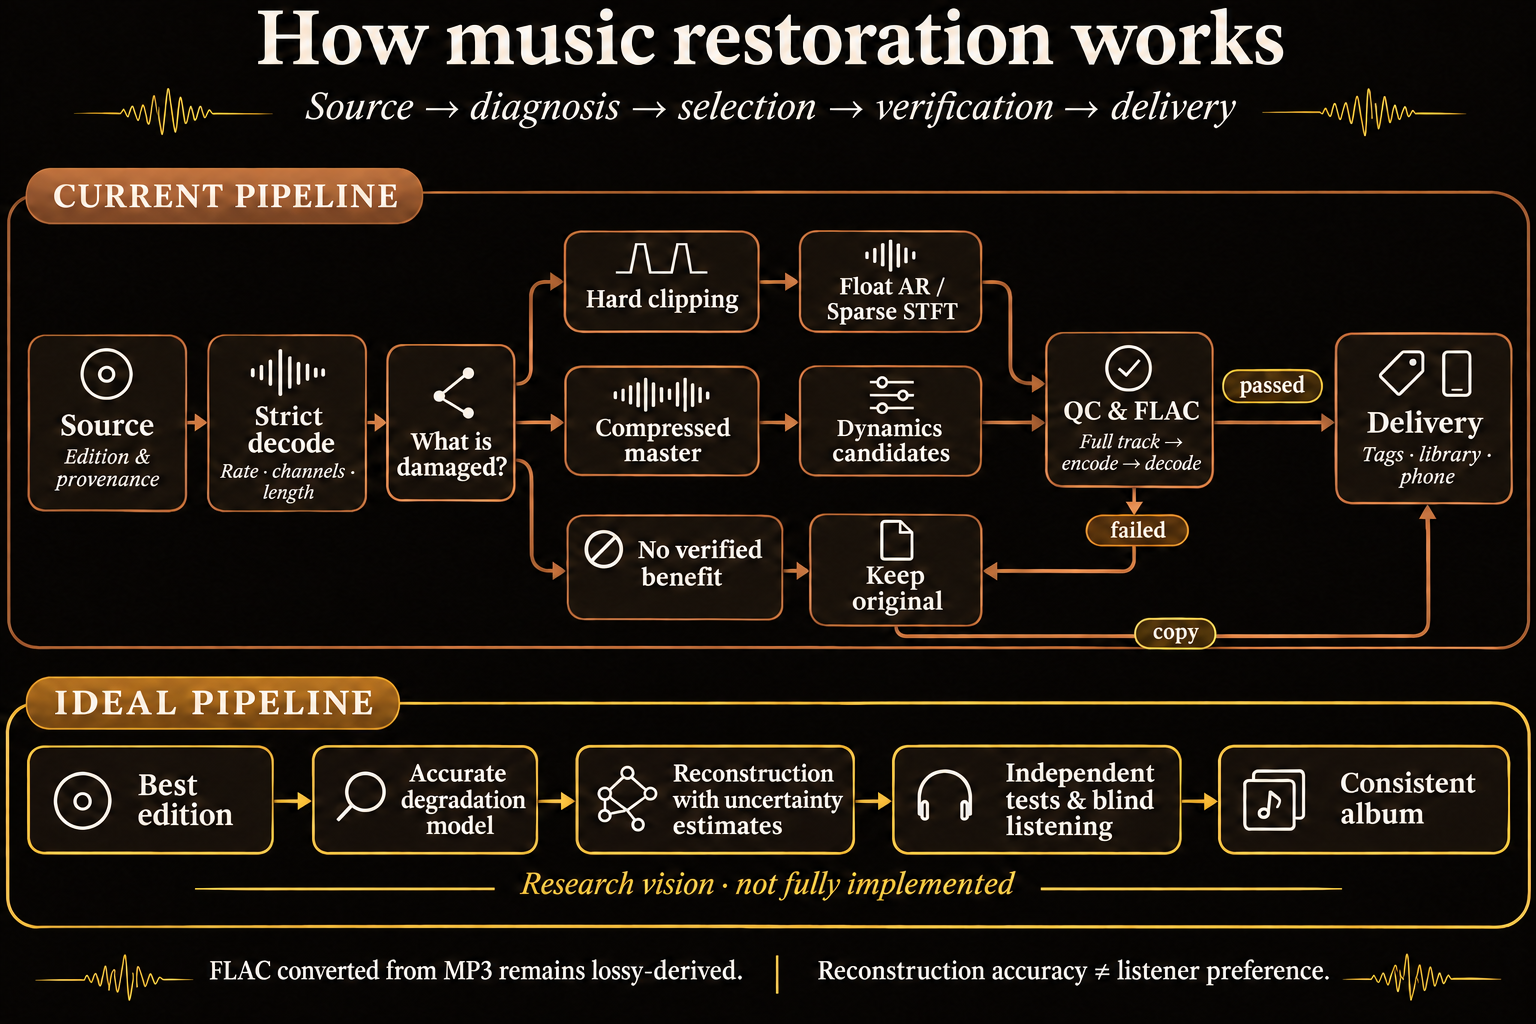
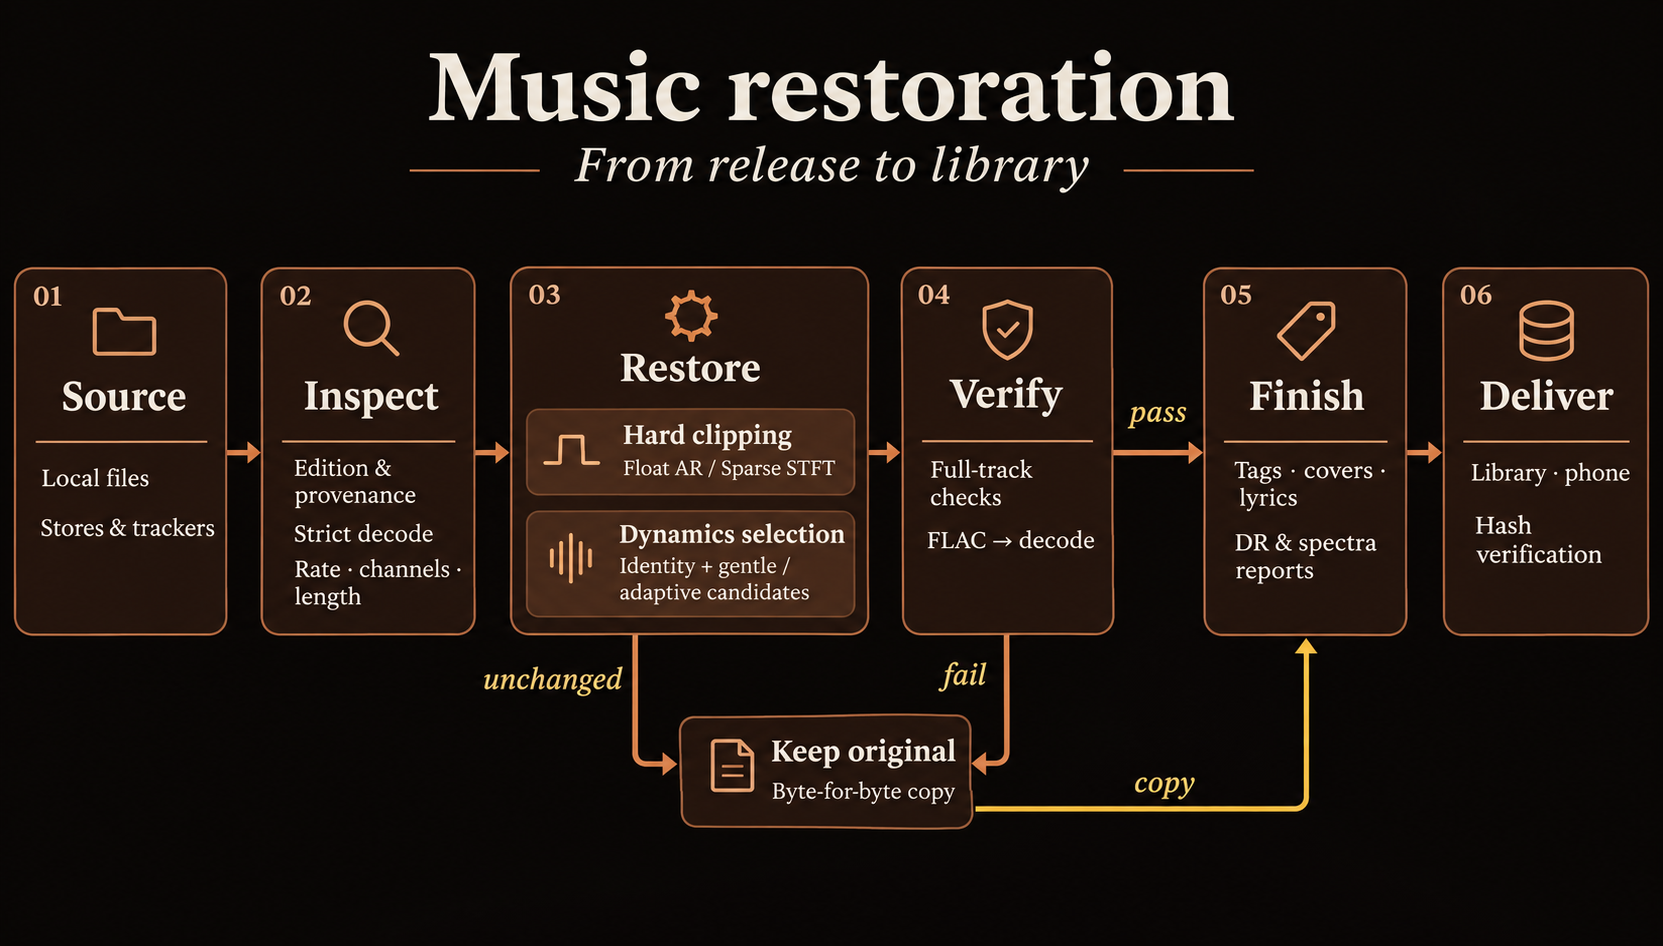
Show only the implemented restoration architecture in the GitHub diagram

diff --git a/docs/restoration-method-ru.md b/docs/restoration-method-ru.md
@@ -2,7 +2,7 @@
 
 Обновлённый скилл связывает поиск подходящего издания, диагностику, обработку, контроль файлов и выдачу в коллекцию. Главное изменение DSP: распознаваемый hard clipping получает отдельную реконструкцию, а сохранение исходника стало полноценным решением. Прохождение инженерных проверок ещё не устанавливает приятность звучания.
 
-![Current and ideal music restoration pipeline](assets/restoration-pipeline.png)
+![Current music restoration pipeline](assets/restoration-pipeline.png)
 
 Схема показывает выбор действий. Низкий DR плотного мастера сам по себе не доказывает повреждение. Ветка динамики проверяет кандидаты относительно исходника и может сохранить его. Доставка на телефон выполняется по запросу с проверкой переданных файлов.
 

diff --git a/README.md b/README.md
@@ -26,7 +26,7 @@ automatic runs. `restore_per_track.py` remains a legacy comparison tool; its
 fixed crest target is not the default quality criterion. No unconditional HPF,
 loudness boost or learned EQ curve is applied by the safe path.
 
-![Current and ideal music restoration pipeline](docs/assets/restoration-pipeline.png)
+![Music restoration pipeline](docs/assets/restoration-pipeline.png)
 
 [How it works and scientific sources — русский разбор](docs/restoration-method-ru.md)
 · [Validation and reproduction](docs/validation/README.md)
